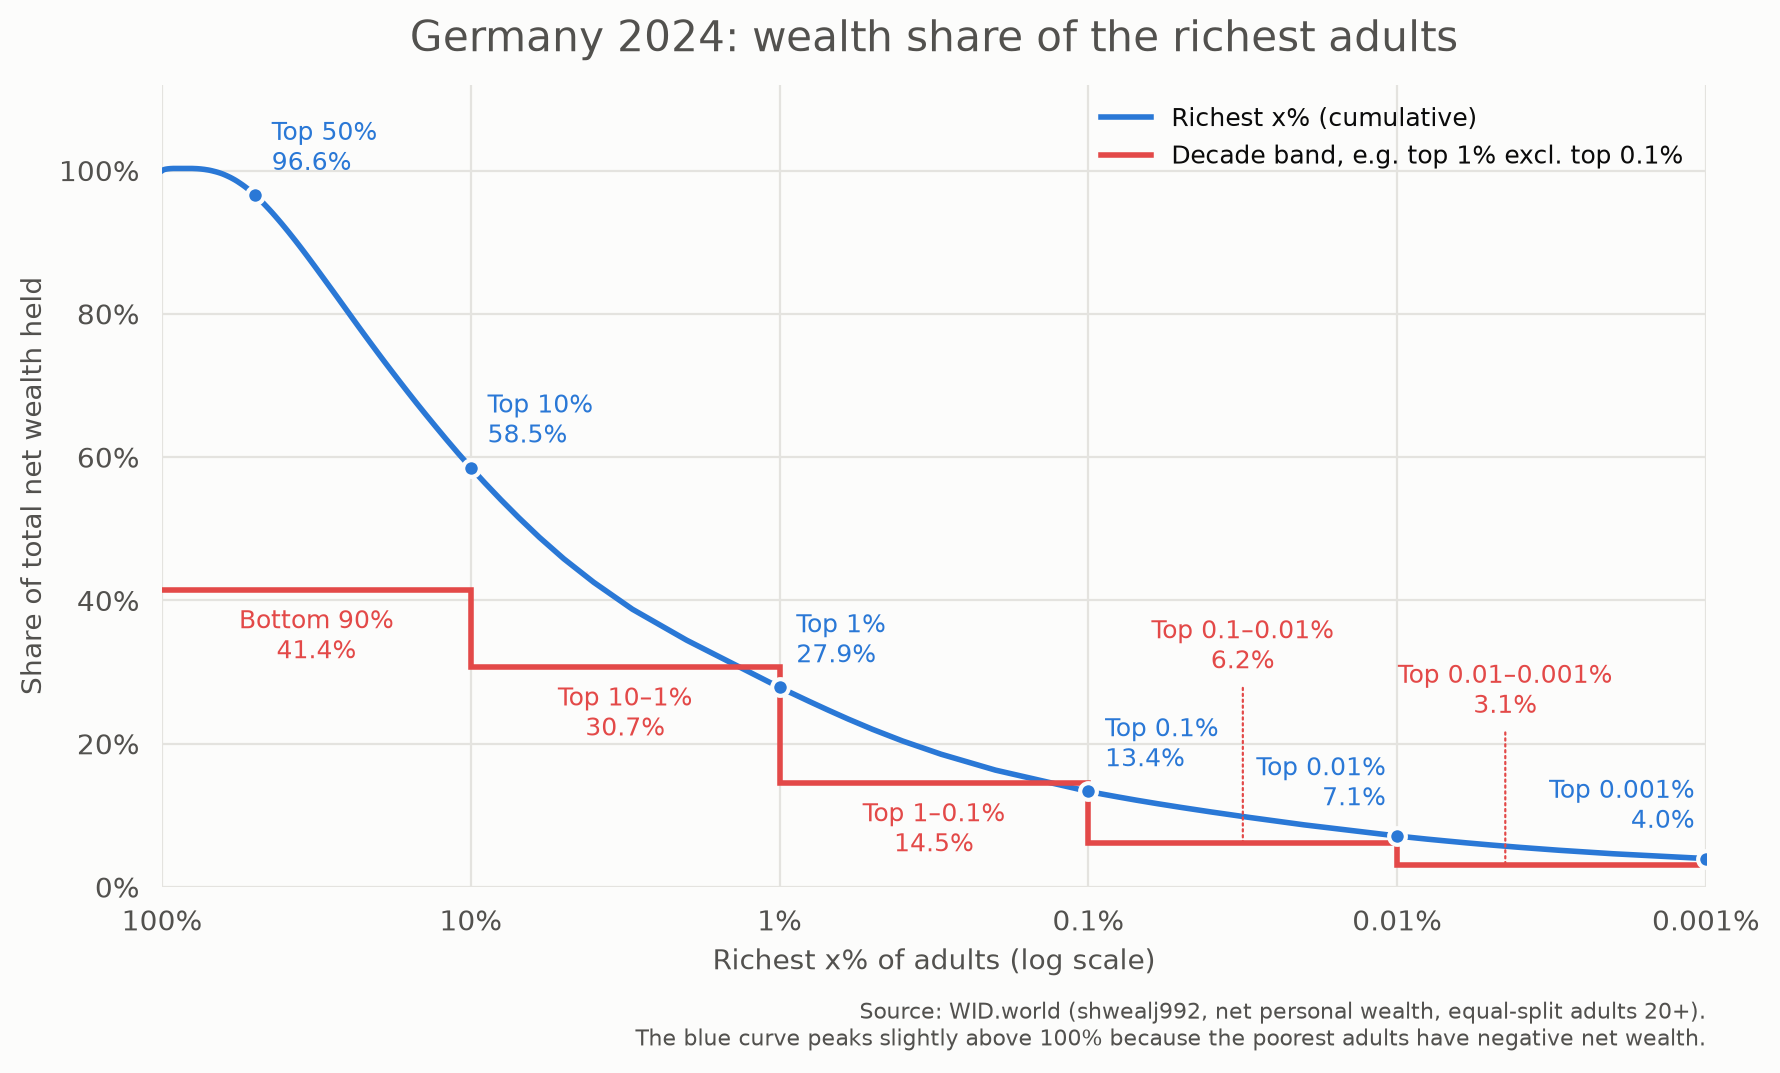
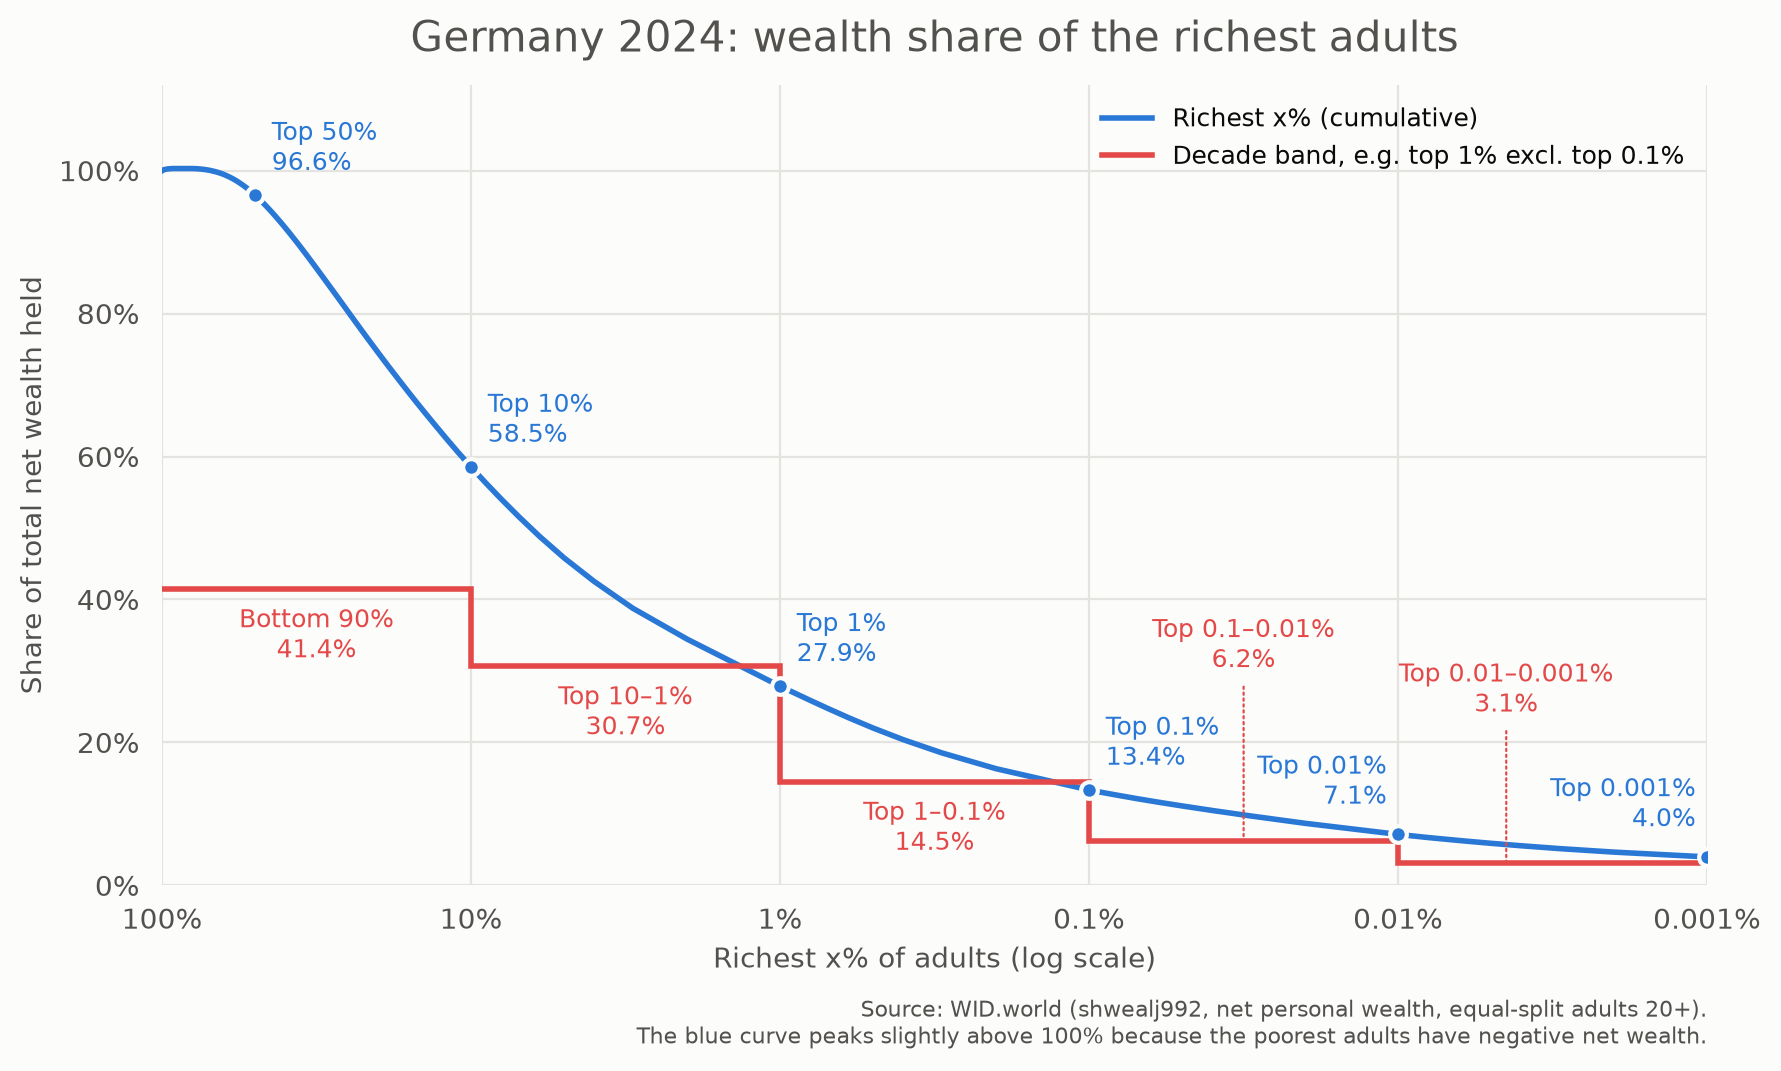
Split package into wid.io and wid.plotting, add notebook and pre-commit
- wid.io.fetch (WID download + tidy) and wid.io.load (CSV loading,
  cumulative top shares); wid.plotting holds style and both charts
- notebooks/main.ipynb loads the data via wid.io and draws the charts
- pre-commit: hygiene hooks, nbstripout, and ruff/ty via uv run
- donuts: richest group starts at 12 o'clock, categorical palette
- round top_pct so exact matches like 0.1 work

diff --git a/src/wid/io/fetch.py b/src/wid/io/fetch.py
@@ -1,4 +1,4 @@
-"""Fetch WID wealth data for Germany and load it for plotting."""
+"""Download WID wealth data for Germany and tidy it into g-percentile bins."""
 
 from itertools import pairwise
 from pathlib import Path
@@ -6,10 +6,11 @@ from pathlib import Path
 import polars as pl
 from remotezip import RemoteZip
 
+from wid.io.load import DEFAULT_CSV
+
 WID_BULK_URL = "https://wid.world/bulk_download/wid_all_data.zip"
 RAW_FILE_NAME = "WID_data_DE.csv"
 DEFAULT_RAW_DIR = Path("data/raw")
-DEFAULT_CSV = Path("data/germany_wealth_gpercentiles_wid.csv")
 
 # Net personal wealth, equal-split adults (20+): share, threshold, average.
 VARIABLES: dict[str, str] = {
@@ -67,23 +68,3 @@ def fetch_and_tidy(
     df.write_csv(out_csv)
     print(f"Saved {out_csv} ({df.height} rows, {df['year'].n_unique()} years)")
     return out_csv
-
-
-def load_cumulative(csv_path: Path, year: int) -> pl.DataFrame:
-    """Return top population fraction (%) vs. cumulative wealth share (%)."""
-    return (
-        pl.read_csv(csv_path)
-        .filter(pl.col("year") == year)
-        .sort("lo", descending=True)
-        .select(
-            top_pct=100.0 - pl.col("lo"),
-            cum_share_pct=pl.col("share").cum_sum() * 100.0,
-        )
-    )
-
-
-def cum_share_at(df: pl.DataFrame, top_pct: float) -> float:
-    """Cumulative share (%) held by the richest `top_pct` percent."""
-    if top_pct == 0.0:
-        return 0.0
-    return df.filter((pl.col("top_pct") - top_pct).abs() < 1e-9)["cum_share_pct"].item()

diff --git a/src/wid/io/load.py b/src/wid/io/load.py
@@ -1,0 +1,34 @@
+"""Load the tidy g-percentile CSV and derive cumulative top shares."""
+
+from pathlib import Path
+
+import polars as pl
+
+DEFAULT_CSV = Path("data/germany_wealth_gpercentiles_wid.csv")
+
+
+def load_gpercentiles(
+    csv_path: Path = DEFAULT_CSV, year: int | None = None
+) -> pl.DataFrame:
+    """One row per (year, g-percentile bin), optionally for a single year."""
+    df = pl.read_csv(csv_path)
+    return df if year is None else df.filter(pl.col("year") == year)
+
+
+def load_cumulative(csv_path: Path = DEFAULT_CSV, year: int = 2024) -> pl.DataFrame:
+    """Return top population fraction (%) vs. cumulative wealth share (%)."""
+    return (
+        load_gpercentiles(csv_path, year)
+        .sort("lo", descending=True)
+        .select(
+            top_pct=(100.0 - pl.col("lo")).round(3),  # 100 - 99.9 != 0.1 in floats
+            cum_share_pct=pl.col("share").cum_sum() * 100.0,
+        )
+    )
+
+
+def cum_share_at(df: pl.DataFrame, top_pct: float) -> float:
+    """Cumulative share (%) held by the richest `top_pct` percent."""
+    if top_pct == 0.0:
+        return 0.0
+    return df.filter((pl.col("top_pct") - top_pct).abs() < 1e-9)["cum_share_pct"].item()

diff --git a/src/wid/plotting/donut_chart.py b/src/wid/plotting/donut_chart.py
@@ -9,8 +9,8 @@ import matplotlib.pyplot as plt
 import polars as pl
 from matplotlib.axes import Axes
 
-from wid.data import cum_share_at
-from wid.style import INK, INK_SECONDARY, LABEL_FONTSIZE, SOURCE_NOTE, SURFACE
+from wid.io.load import cum_share_at
+from wid.plotting.style import INK, INK_SECONDARY, LABEL_FONTSIZE, SOURCE_NOTE, SURFACE
 
 # Group edges as "richest x%", from everyone down to the very top.
 GROUP_EDGES: tuple[float, ...] = (100.0, 50.0, 10.0, 1.0, 0.1, 0.01, 0.001, 0.0)

diff --git a/src/wid/cli.py b/src/wid/cli.py
@@ -4,9 +4,9 @@ from pathlib import Path
 
 import fire
 
-from wid.data import DEFAULT_CSV, DEFAULT_RAW_DIR, fetch_and_tidy, load_cumulative
-from wid.donut_chart import plot_donuts
-from wid.line_chart import plot_line_chart
+from wid.io import DEFAULT_CSV, fetch_and_tidy, load_cumulative
+from wid.io.fetch import DEFAULT_RAW_DIR
+from wid.plotting import plot_donuts, plot_line_chart
 
 DEFAULT_YEAR = 2024
 OUTPUT_DIR = Path("output")

diff --git a/src/wid/io/__init__.py b/src/wid/io/__init__.py
@@ -1,0 +1,14 @@
+"""Data access: fetch from WID.world and load the tidy CSV."""
+
+from wid.io.fetch import fetch_and_tidy, g_percentiles, tidy_gpercentiles
+from wid.io.load import DEFAULT_CSV, cum_share_at, load_cumulative, load_gpercentiles
+
+__all__ = [
+    "DEFAULT_CSV",
+    "cum_share_at",
+    "fetch_and_tidy",
+    "g_percentiles",
+    "load_cumulative",
+    "load_gpercentiles",
+    "tidy_gpercentiles",
+]

diff --git a/src/wid/plotting/line_chart.py b/src/wid/plotting/line_chart.py
@@ -12,8 +12,8 @@ import polars as pl
 from matplotlib.axes import Axes
 from matplotlib.ticker import FuncFormatter, NullLocator, PercentFormatter
 
-from wid.data import cum_share_at
-from wid.style import (
+from wid.io.load import cum_share_at
+from wid.plotting.style import (
     BLUE,
     GRID,
     INK,

diff --git a/src/wid/plotting/__init__.py b/src/wid/plotting/__init__.py
@@ -1,0 +1,6 @@
+"""Charts of the German wealth distribution."""
+
+from wid.plotting.donut_chart import plot_donuts
+from wid.plotting.line_chart import plot_line_chart
+
+__all__ = ["plot_donuts", "plot_line_chart"]

diff --git a/README.md b/README.md
@@ -12,11 +12,15 @@ wealth. The unit is equal-split adults aged 20+.
 
 ```bash
 make install     # uv sync
+make hooks       # install pre-commit hooks (ruff, ty, nbstripout)
 make data        # fetch WID_data_DE.csv from the bulk zip -> data/germany_wealth_gpercentiles_wid.csv
 make plots       # output/germany_wealth_cumulative.png and output/germany_wealth_donuts.png
 make plot-donut YEAR=2018
-make check       # ruff format, ruff check, ty
+make check       # all pre-commit hooks on all files
 ```
+
+`notebooks/main.ipynb` loads the data with `wid.io` and draws the charts with
+`wid.plotting`.
 
 The commands are also available directly: `uv run fetch-data`, `uv run plot-line`,
 `uv run plot-donut` (each takes `--year`, `--csv_path`, `--out_path`).
